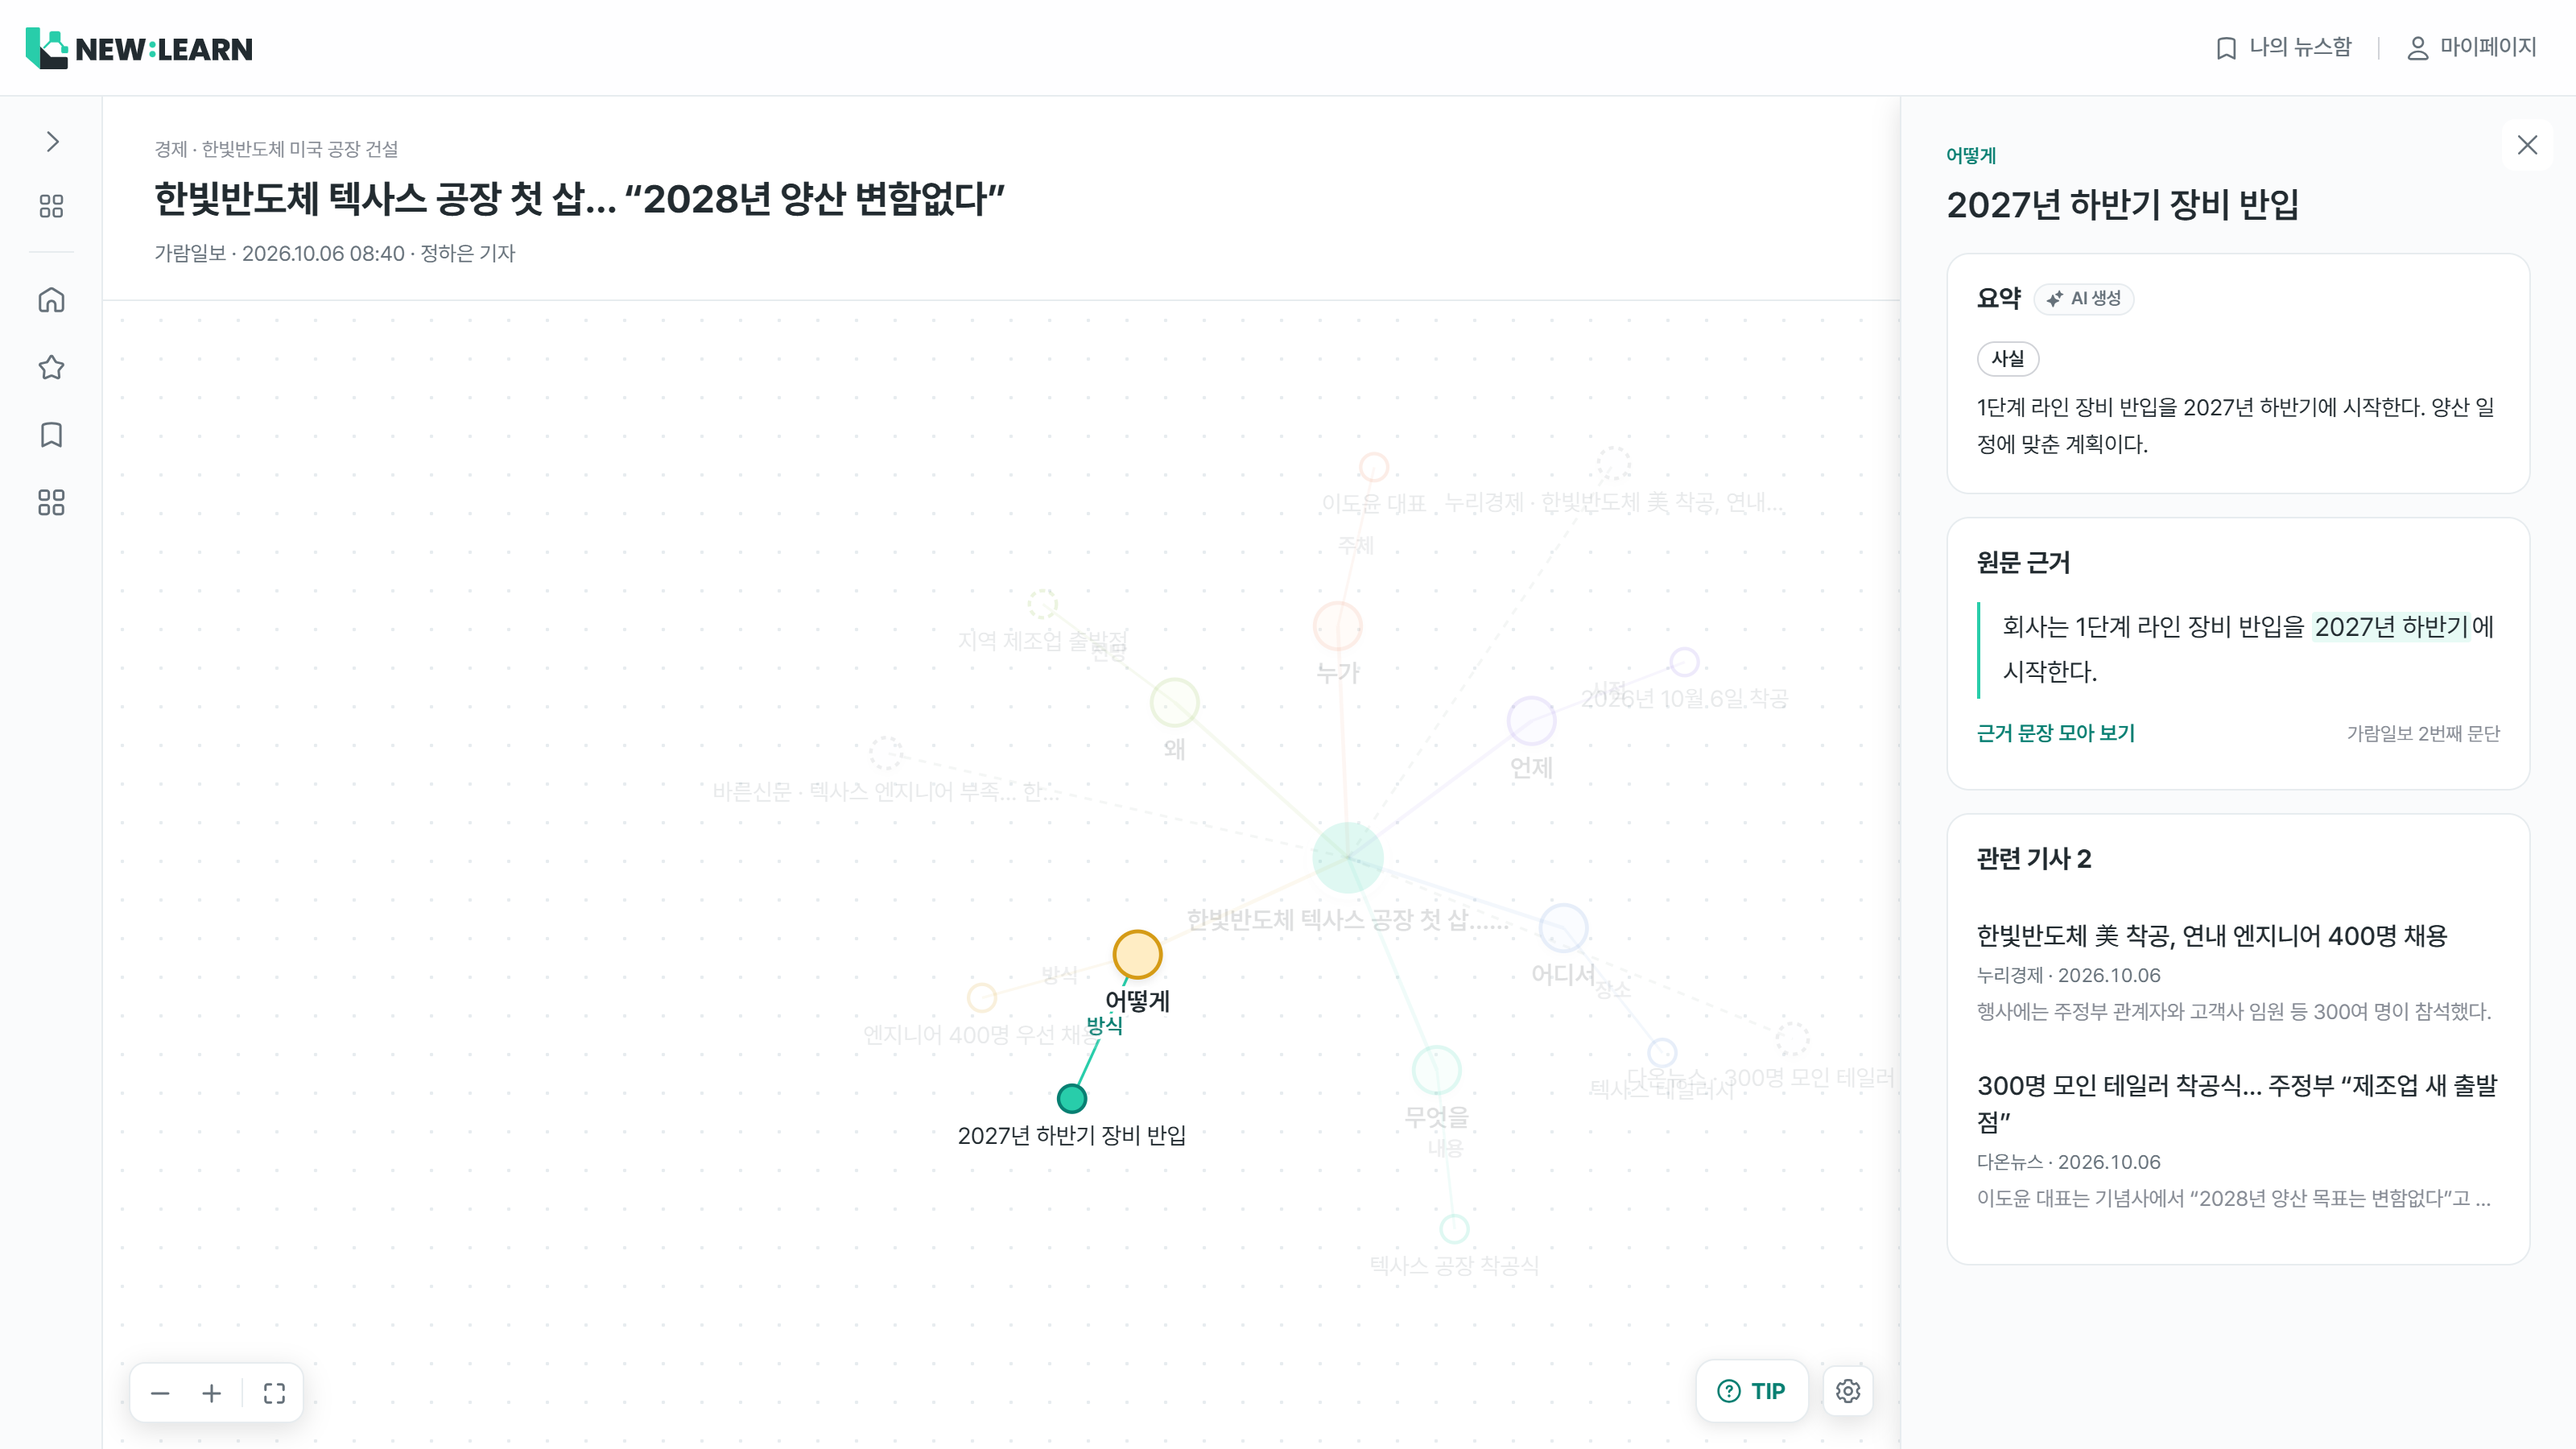
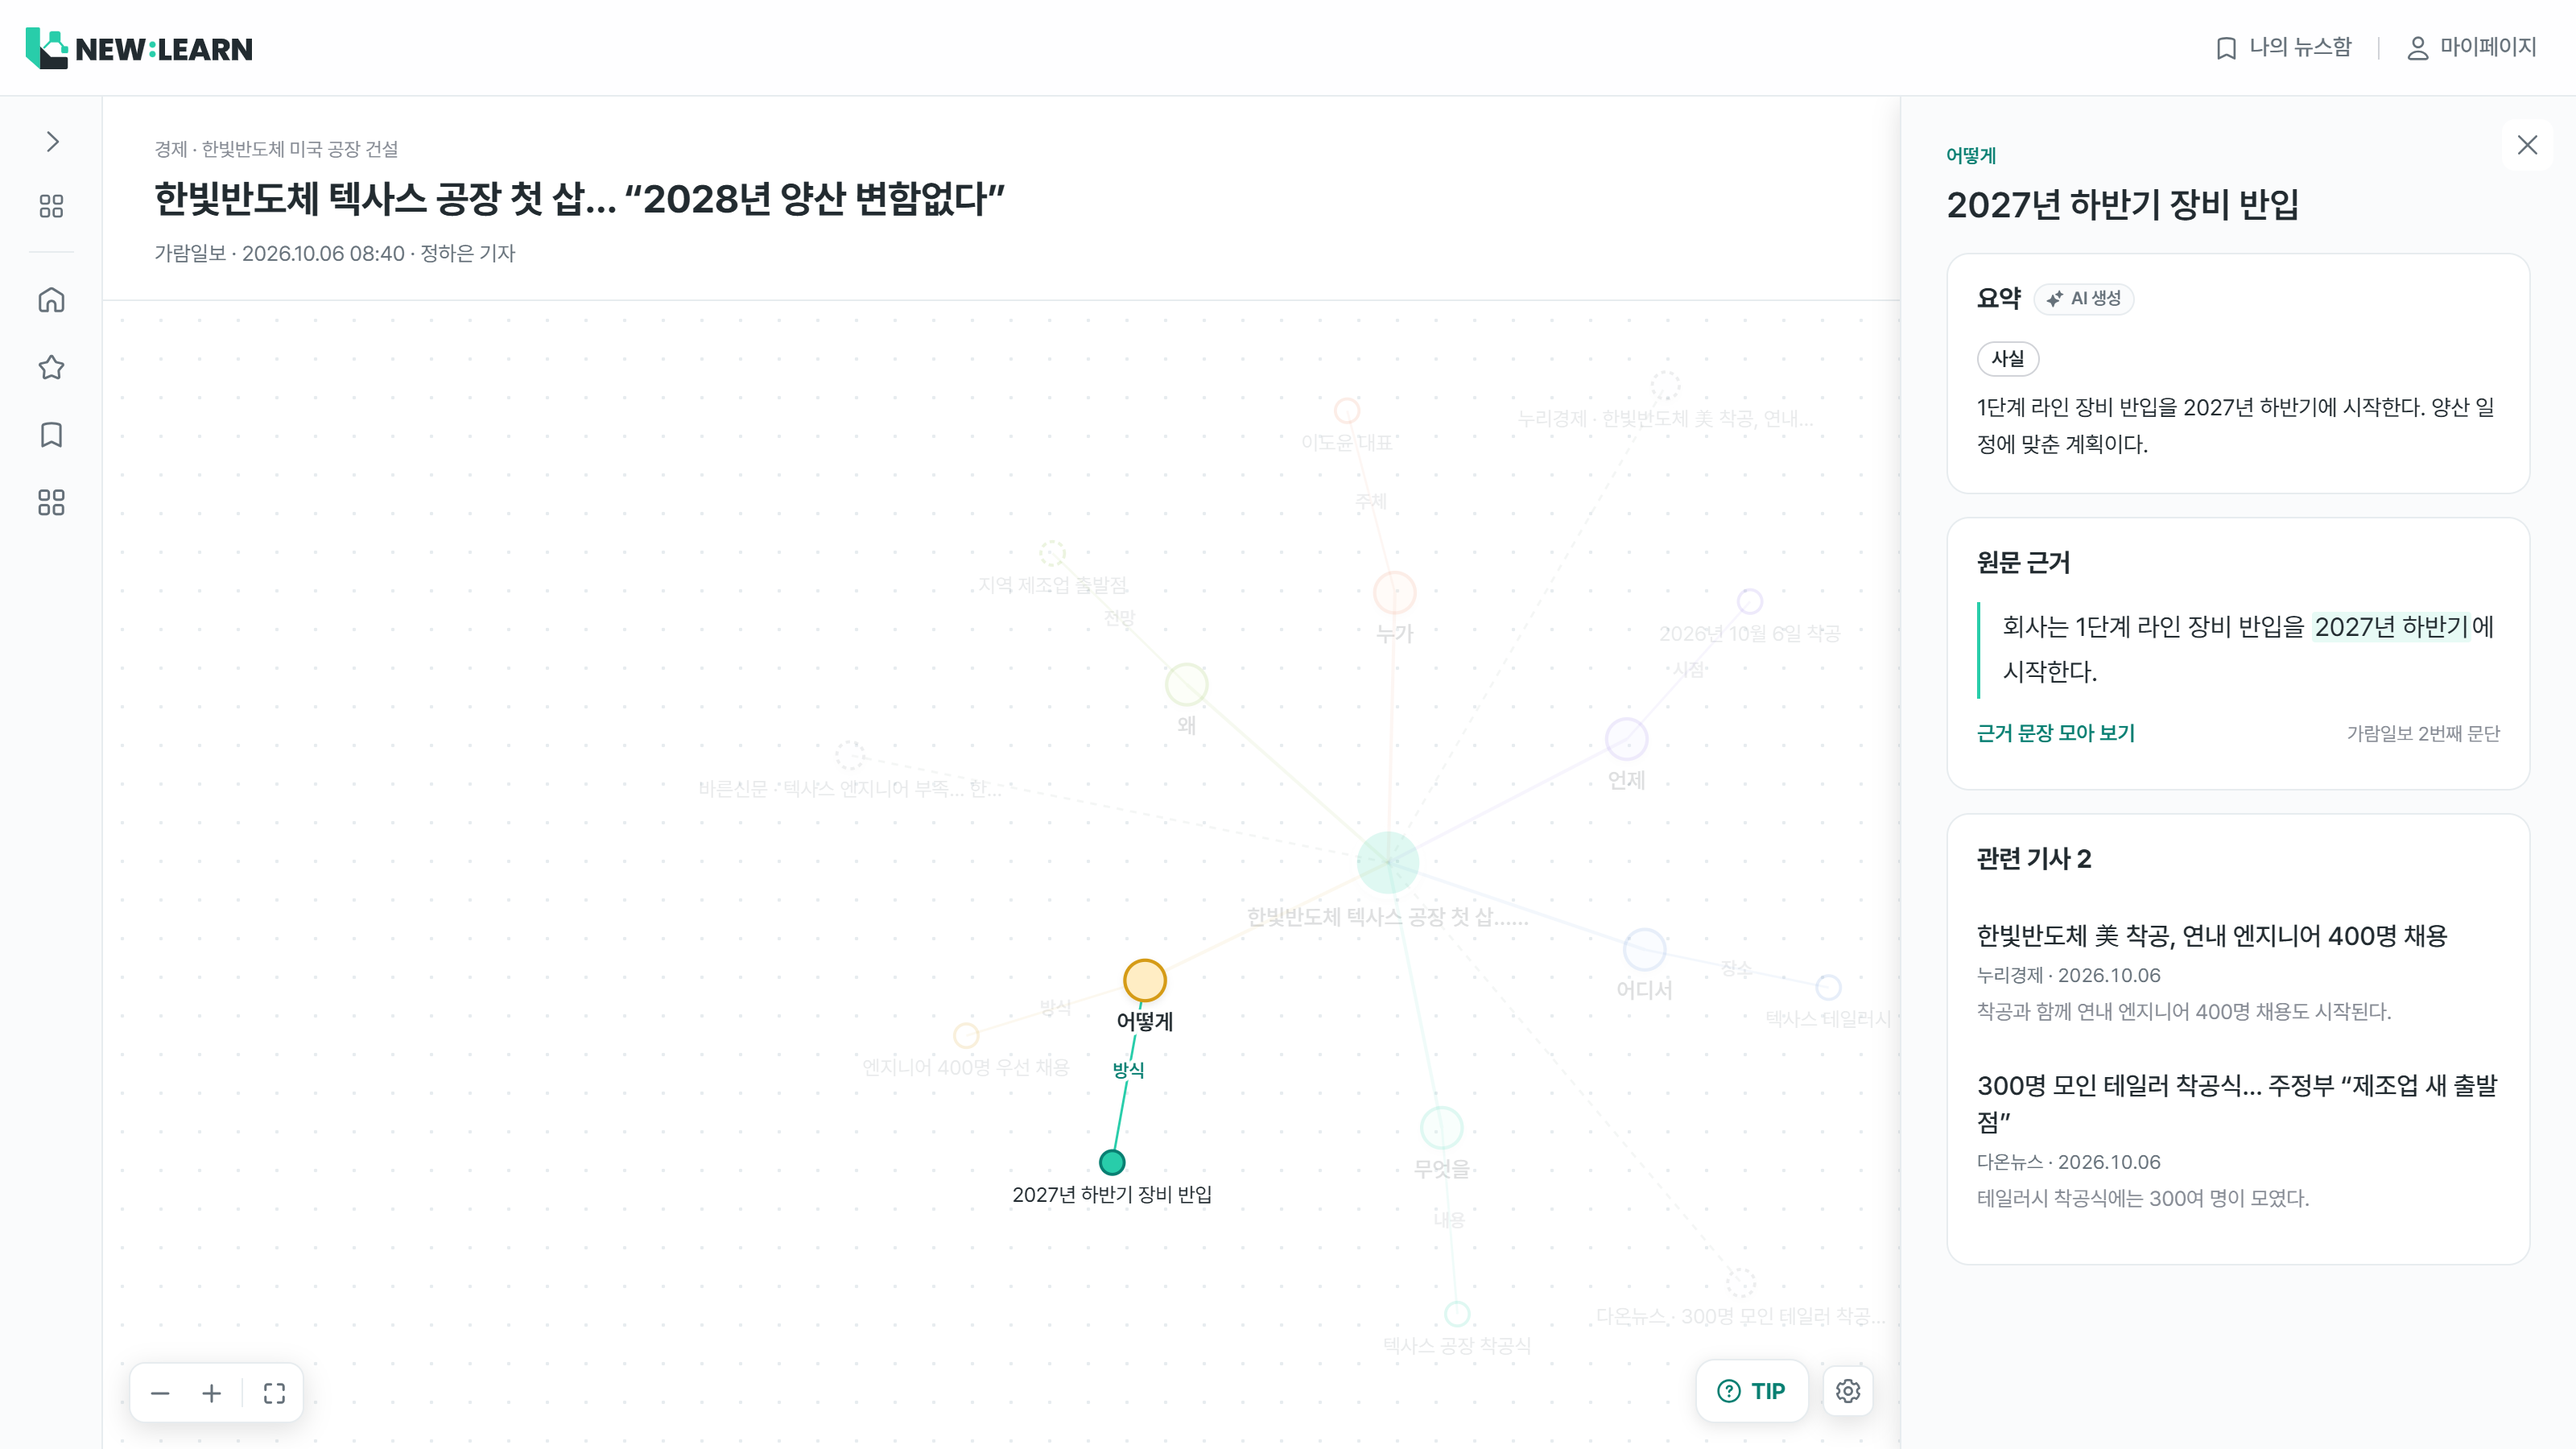
docs(plan): 발표 자료 화면을 프로토타입 v15로 다시 캡처

diff --git a/docs/presentation/README.md b/docs/presentation/README.md
@@ -1,6 +1,8 @@
 # 발표 자료용 이미지
 
-발표 슬라이드에 바로 넣을 수 있는 이미지 모음입니다. 화면 캡처는 **프로토타입 v14** 기준이고, 2026-10-15에 찍었습니다.
+발표 슬라이드에 바로 넣을 수 있는 이미지 모음입니다. 화면 캡처는 **프로토타입 v15** 기준이고, 2026-10-15에 찍었습니다.
+
+기사 마인드맵(`screens/06`, `07`, `jensen/08`, `jensen/09`)은 라벨이 겹치지 않도록 그래프 설정의 노드 간격을 1.4배로 넓히고 *화면에 맞추기*를 누른 뒤 찍었습니다. 젠슨 황 마인드맵은 노드 세 개(엔비디아, 블랙웰 GPU 약 26만 장 공급, 다온뉴스)를 끌어서 자리를 옮겼어요. 시연할 때도 노드 간격을 넓혀 두면 같은 화면이 나옵니다.
 
 - **screens/**: 한빛반도체 이슈와 공통 화면. 3200×1800(16:9) PNG입니다.
 - **screens/jensen/**: 젠슨 황 이슈 화면. 3200×1800(16:9) PNG입니다.
@@ -70,16 +72,6 @@
 
 ## 발표 전에 꼭 확인할 것
 
-### v14에서 고쳐야 할 화면
-
-| 문제 | 들어 있는 이미지 | 고칠 내용 |
-| --- | --- | --- |
-| 젠슨 황 마인드맵의 모든 가지에 "전망" 라벨과 점선 원이 붙음 | `jensen/08`, `jensen/09` | 전망·해석은 "최대 14조 원 규모 추산" 하나뿐. 나머지는 한빛반도체처럼 주체·시점·장소·내용·방식 라벨로 |
-| 노드 패널의 "정부 물량은 국가 AI 컴퓨팅 센터에"에 전망·해석 배지 | `jensen/09` | 사실로 |
-| 노드 패널 관련 기사 3건의 발췌 문장이 누리경제 기사 문장(¶2~¶4) | `jensen/09` | 각 기사 자기 문장으로. 다온뉴스는 배분 문장, 새벽타임즈는 SK 문장, 가람일보는 현대차 투자 문장 |
-
-위 세 가지가 고쳐지기 전에는 `jensen/08`과 `jensen/09`를 발표에 쓰지 마세요.
-
 ### MVP 이후 기능
 
 프로토타입에는 MVP 이후 기능이 함께 보입니다. 아래 기능을 MVP 기능처럼 설명하지 마세요.
@@ -98,6 +90,6 @@
 - 변화 분석 흐름: [../change-analysis-flow.html](../change-analysis-flow.html)
 - 유저 플로우: [../user-flow.html](../user-flow.html), [../user-flow.md](../user-flow.md)
 - 젠슨 황 이슈 구성: [../claude-design-brief-jensen-huang.md](../claude-design-brief-jensen-huang.md)
-- 프로토타입: [../prototype/NEW-LEARN 프로토타입 v14.html](<../prototype/NEW-LEARN 프로토타입 v14.html>)
+- 프로토타입: [../prototype/NEW-LEARN 프로토타입 v15.html](<../prototype/NEW-LEARN 프로토타입 v15.html>)
 
 원본을 고쳐서 이미지를 다시 뽑아야 하면 말씀해 주세요.
